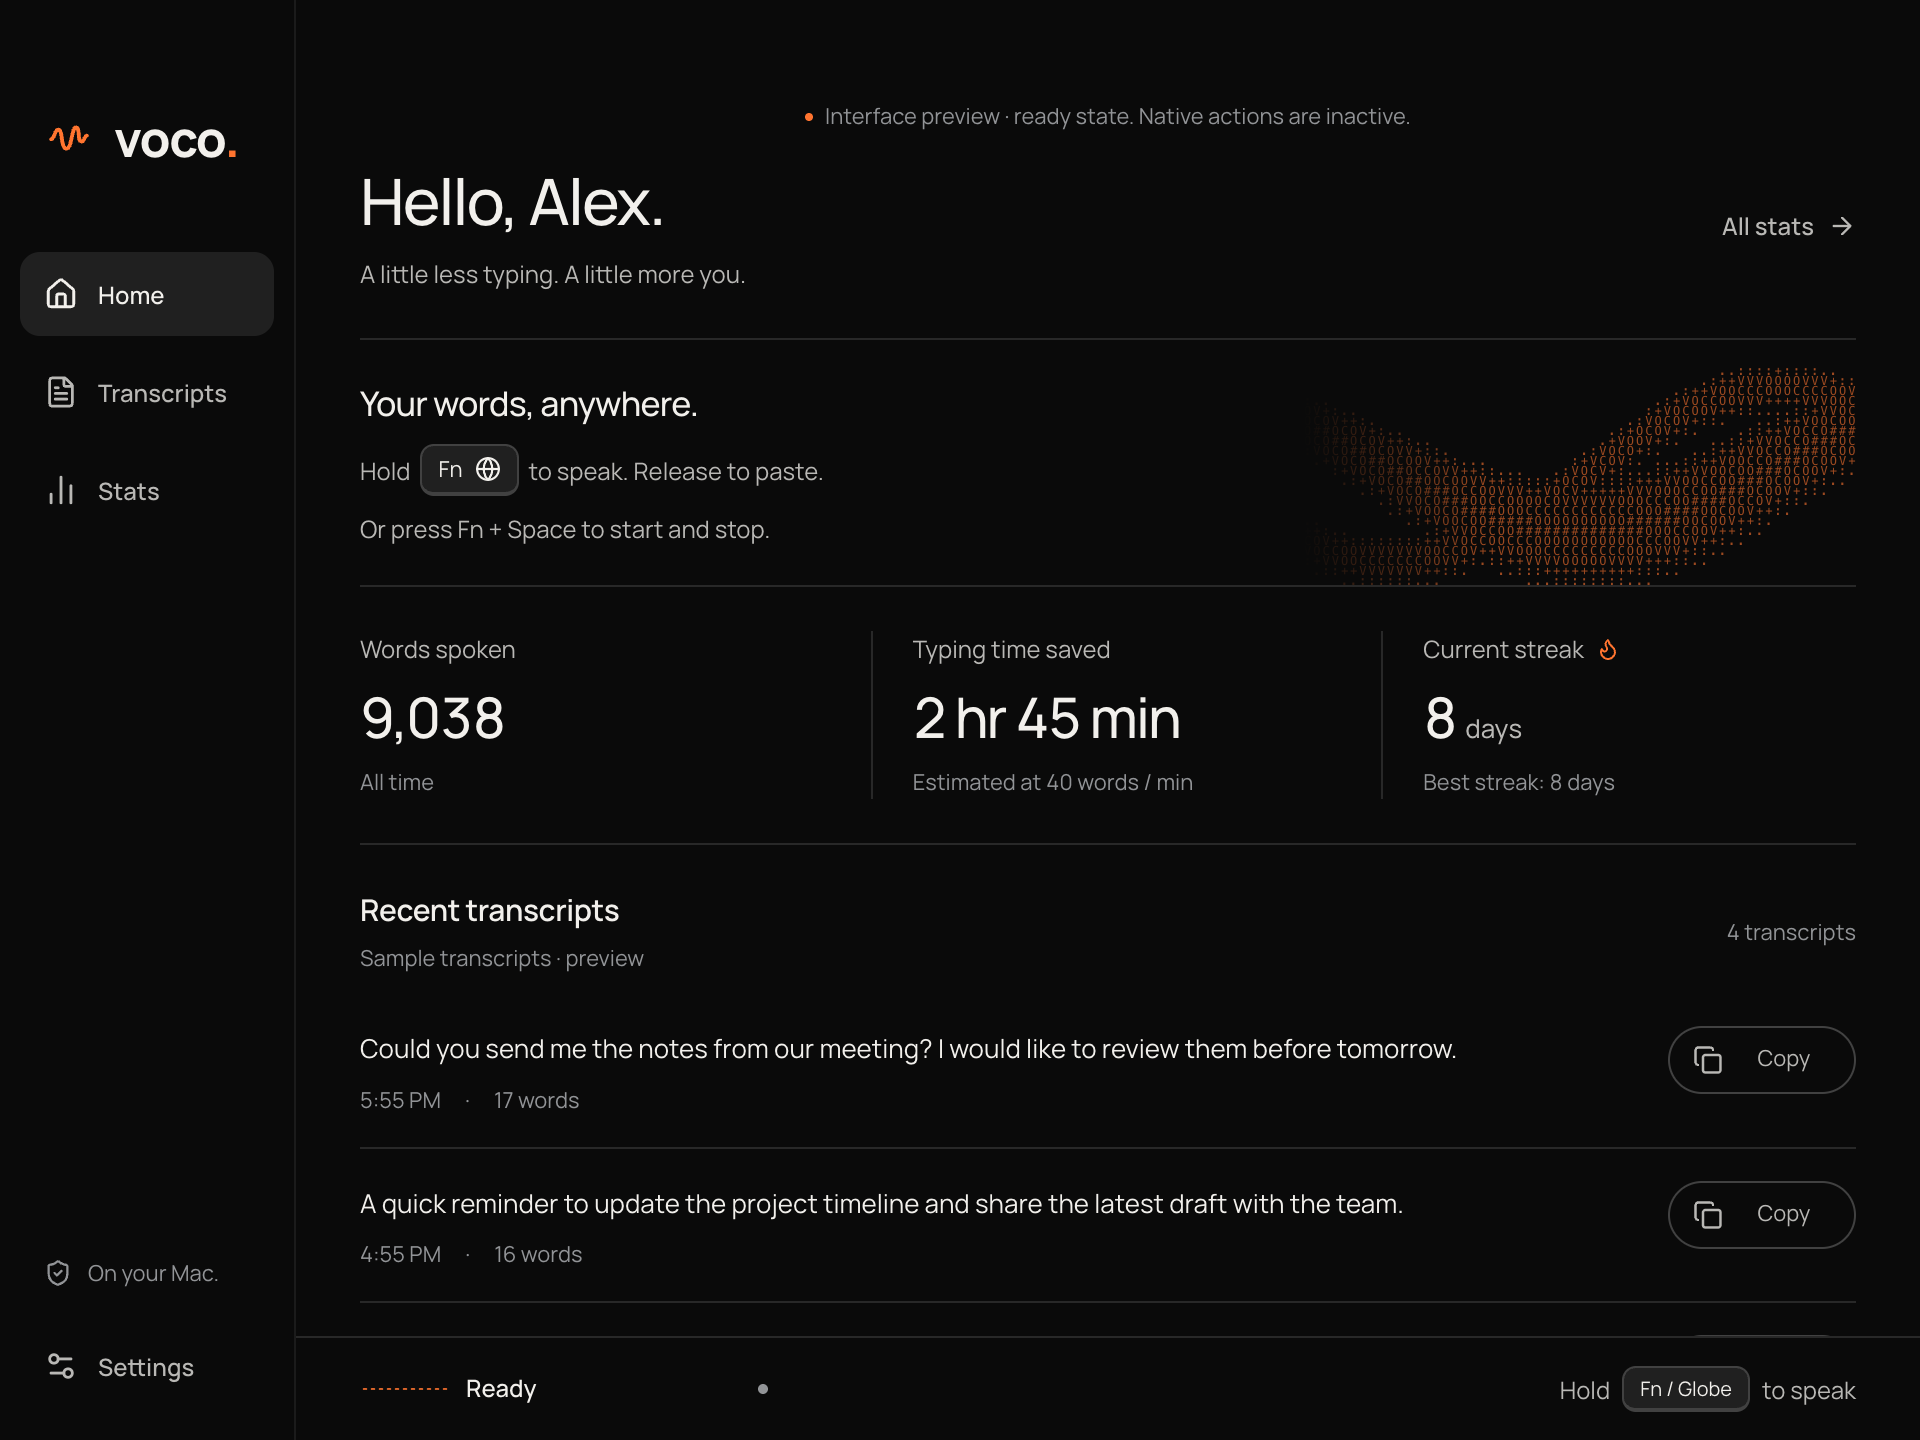
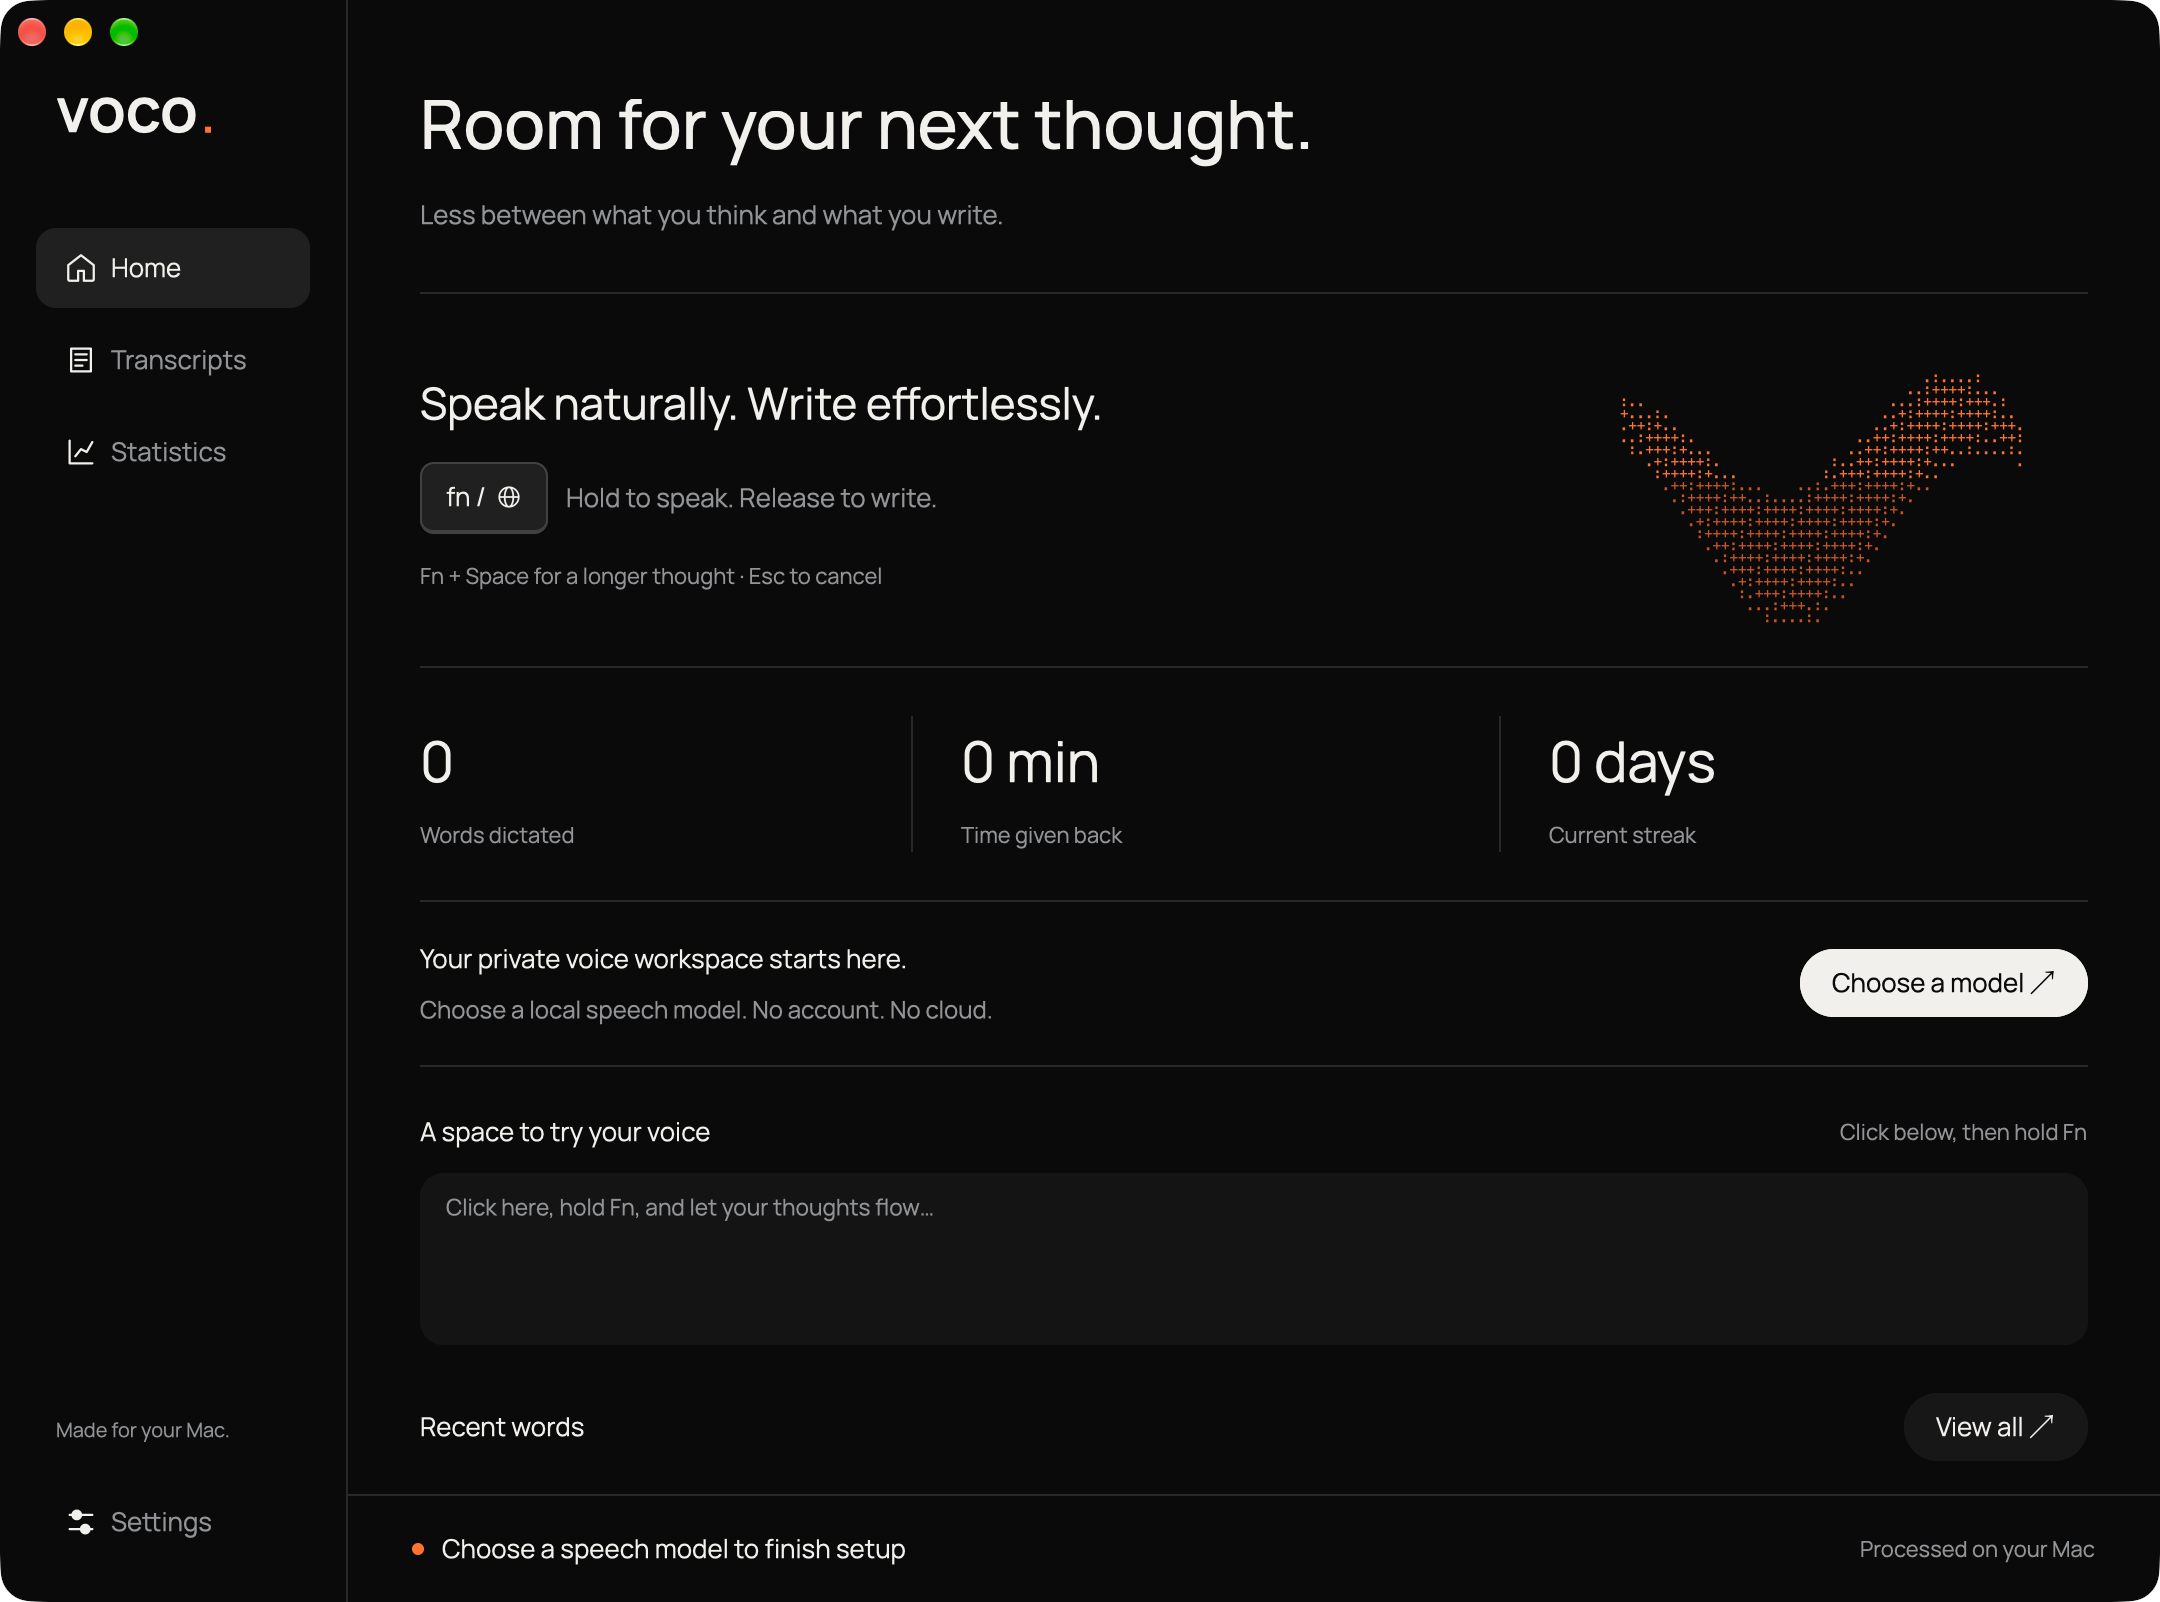
Record native GPUI verification and design evidence

diff --git a/docs/gpui/verification.md b/docs/gpui/verification.md
@@ -1,0 +1,35 @@
+# GPUI verification
+
+The current application renders its dashboard and voice pill with GPUI. The speech controller, recognition engines, model installer, and insertion safeguards remain in Rust.
+
+## Build and core checks
+
+`./scripts/verify.sh` passed formatting, the runtime dependency guard, Clippy with warnings denied, all 34 tests, and the executable build. The dependency guard requires GPUI and rejects egui, eframe, and webview renderers in the normal dependency graph. Captured output is in [build.txt](evidence/build.txt).
+
+After the placeholder contrast correction, formatting, Clippy, and the build passed again. The [correction log](evidence/contrast-build.txt) records those final checks. The independent visual reviewer scored its sole requested correction resolved after inspecting refreshed Home, Transcripts, and compact captures. No material regressions from that correction were reported.
+
+## Native interface
+
+The real executable completed the following command with an isolated profile:
+
+```sh
+VOCO_DATA_DIR=/tmp/voco-gpui-profile target/debug/voco --verify-ui .audit/gpui-native-final
+```
+
+The verifier waits for each native-window capture to finish before advancing. The [UI report](evidence/ui.json) records four pages, four settings panels, a compact window, recovery, and two floating-pill states. Its eleven PNGs are under `.audit/gpui-native-final`.
+
+The captures correspond to Home, Transcripts, Statistics, Output, Models, Access, Dictation, compact Home, recovery, Listening, and Transcribing, numbered 0 through 10. Dashboard captures use 1080 by 800 points. Compact Home uses 820 by 640 points. Retina images have twice the logical dimensions. Example transcript text and microphone levels exist only in verification mode and are labeled as verification content. Usage totals remain actual profile totals.
+
+Native assertions passed Unicode selection replacement and caret placement, changed-text refusal, composition refusal, transcript filtering and clearing, actual close-to-hide behavior, and second-instance reopening. The voice pill cannot become key or main and ignores mouse input. Showing it preserved the dashboard's actual macOS key-window identity as well as its focused practice input.
+
+The [dashboard capture](../images/voco-dashboard.png), [compact capture](evidence/compact.png), [Listening pill](evidence/listening.png), and [Transcribing pill](evidence/transcribing.png) retain representative visual evidence.
+
+## System insertion
+
+`target/debug/voco --verify-insertion` passed against disposable native editors. The [insertion report](evidence/insertion.json) records a 2,200 UTF-16-unit Unicode write, selected-text replacement, changed-selection refusal, changed-field refusal, and password-field refusal.
+
+## Limits
+
+Microphone permission was absent for the tested executable. Accessibility permission and the shortcut monitor were available. This redesign run did not exercise live microphone dictation, physical Fn presses across applications, or model downloads and inference. Earlier engine checks are historical evidence in the [Rust migration record](../rust/verification.md).
+
+The overlay focus check uses the dashboard as the focused editor. It does not prove behavior with every external application or fullscreen Space. The release app bundle was not rebuilt during this design task.

diff --git a/docs/rust/ui.md b/docs/rust/ui.md
@@ -1,9 +1,11 @@
-# Rust dashboard
+# Native dashboard
 
-The Rust dashboard preserves Voco's existing dark palette, Manrope typography, orange voice accents, four navigation destinations, setup actions, and local transcript recovery. egui replaces the browser implementation. Native macOS menus provide navigation shortcuts.
+GPUI renders Voco's dashboard and floating voice pill. The interface uses Metal, the bundled Manrope font, a black canvas, graphite controls, soft-white primary buttons, and orange voice details. Native GPUI input components handle editing, selection, and composition.
 
-The first viewport has a narrow sidebar and a task area. Home leads with Fn/Globe guidance, then model and permission setup or a practice field and recent transcripts. Settings has Output, Models, Access, and Dictation tabs. A persistent footer reports session status and errors. The recording panel is an AppKit nonactivating panel controlled from Rust.
+A fixed sidebar gives Home, Transcripts, Statistics, and Settings stable locations. Home pairs shortcut guidance with an orange ASCII ribbon, followed by real usage totals, a practice field, and recent words. Missing setup has a direct action to the relevant settings panel. Settings retains Output, Models, Access, and Dictation tabs. Transcripts has search, complete text, and exact clipboard copying.
 
-The static `Resources/Fonts/Manrope-Regular.ttf` is a weight-400 instance of the previously bundled variable Manrope font, generated with FontTools. The variable font's default weight was 200, which egui rendered too lightly in the first screenshot. The original font license is retained.
+The live footer and recovery panel sit outside page scrolling. The floating voice pill uses measured audio levels during capture and a separate progress indicator during transcription. Its macOS panel cannot become key or main and ignores pointer input. Page arrivals and the progress indicator respect macOS Reduce Motion.
 
-Screenshots from the real executable are created by `voco --verify-ui DIRECTORY`. The native capture runs through egui's screenshot event. The verification record describes the tested pages and known limitations.
+`voco --verify-ui DIRECTORY` captures the real native windows and exercises practice selection replacement and dashboard lifecycle. The [GPUI verification record](../gpui/verification.md) records the current results and limits. Earlier egui results remain historical evidence in the [Rust migration record](verification.md).
+
+The [direction brief](../gpui/direction.md) explains the composition and alternatives. The [design system](../../DESIGN.md) owns shared colors, typography, and visual constraints.

diff --git a/docs/architecture.md b/docs/architecture.md
@@ -1,6 +1,6 @@
 # Architecture
 
-Voco is one Rust executable. egui/eframe renders the dashboard. AppKit and Accessibility bindings implement macOS behavior. CPAL captures microphone audio. Native inference dependencies provide Moonshine, ONNX Runtime, and whisper.cpp. There is no web renderer or helper process.
+Voco is one Rust executable. GPUI renders the dashboard and floating recording pill using Metal. AppKit and Accessibility bindings implement macOS behavior. CPAL captures microphone audio. Native inference dependencies provide Moonshine, ONNX Runtime, and whisper.cpp. There is no web renderer or helper process.
 
 ## Ownership
 
@@ -14,9 +14,11 @@ Voco is one Rust executable. egui/eframe renders the dashboard. AppKit and Acces
 
 `audio.rs` captures the default microphone, downmixes to mono, and resamples to 16 kHz with a low-pass filter. Its bounded memory buffer holds at most ten minutes. Capture errors stop the session. Reaching the limit finishes recognition of the captured prefix.
 
-`platform.rs` owns permissions, the global event tap, clipboard access, focus validation, insertion, and a nonactivating AppKit recording panel. The event tap runs on its own run loop and sends actions to the controller. It performs no Accessibility work in its callback.
+`platform.rs` owns permissions, the global event tap, clipboard access, focus validation, insertion, and macOS window integration. The event tap runs on its own run loop and sends actions to the controller. It performs no Accessibility work in its callback.
 
-`ui.rs` owns dashboard navigation, the practice field, settings controls, statistics, in-memory transcript views, tray menus, and screenshot verification. The practice field applies validated results directly to egui text state. Other apps receive a verified Accessibility write or clipboard-preserving paste.
+`ui.rs` owns dashboard navigation, the practice field, settings controls, statistics, in-memory transcript views, tray menus, and screenshot verification. The practice field applies validated results to its native GPUI input state, converting UTF-16 selections into character-based ranges and cursor positions. Other apps receive a verified Accessibility write or clipboard-preserving paste.
+
+`overlay.rs` draws the voice pill in GPUI. Its macOS panel cannot become key or main and ignores pointer input. It shows measured microphone energy during listening and a separate progress indicator during transcription.
 
 `storage.rs` owns preferences migration and atomic settings persistence. The serialized shape contains preferences and usage totals. It has no audio or transcript fields.
 

diff --git a/README.md b/README.md
@@ -4,7 +4,7 @@ Speak into the app you're using. Voco turns your voice into text on your Mac.
 
 Hold **Fn** or **Globe**, speak, and release. Voco transcribes locally and inserts your words at the cursor. **Fn + Space** starts and stops continuous dictation. **Escape** cancels recording or pending transcription.
 
-Voco is a Rust application. Its dashboard uses egui. Rust bindings call macOS frameworks for the menu bar, permissions, shortcuts, the recording panel, and text insertion. The app has no Electron, browser UI, Node.js, or Swift helper.
+Voco is a Rust application. GPUI renders its dashboard and floating recording pill with Metal. Rust bindings call macOS frameworks for the menu bar, permissions, shortcuts, nonactivating windows, and text insertion. The app has no Electron, browser UI, Node.js, or Swift helper.
 
 ## Build and run
 

diff --git a/PRODUCT.md b/PRODUCT.md
@@ -10,7 +10,7 @@ Rust desktop application for Apple Silicon Macs running macOS 26 or newer.
 
 ## Stack
 
-Rust and egui/eframe provide the dashboard. Rust bindings to AppKit and Accessibility own system integration. CPAL captures audio. Statically linked inference libraries run Moonshine Medium Streaming, Parakeet TDT 0.6B v2 ONNX, and Whisper Large v3 Turbo in English.
+Rust and GPUI provide the dashboard and floating recording pill. Native GPUI input components handle text editing and composition. Rust bindings to AppKit and Accessibility own system integration. CPAL captures audio. Statically linked inference libraries run Moonshine Medium Streaming, Parakeet TDT 0.6B v2 ONNX, and Whisper Large v3 Turbo in English.
 
 ## Product purpose
 

diff --git a/docs/rust/verification.md b/docs/rust/verification.md
@@ -1,5 +1,7 @@
 # Rust migration verification
 
+This record describes the earlier egui port. The [GPUI verification record](../gpui/verification.md) covers the current native interface.
+
 ## Core and recognition
 
 The original TypeScript application passed 28 tests and type checking before migration.
